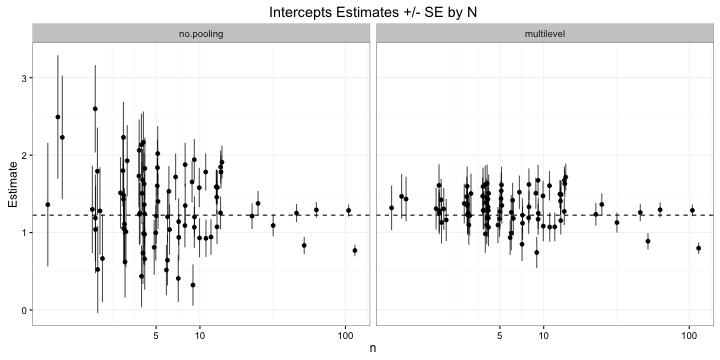
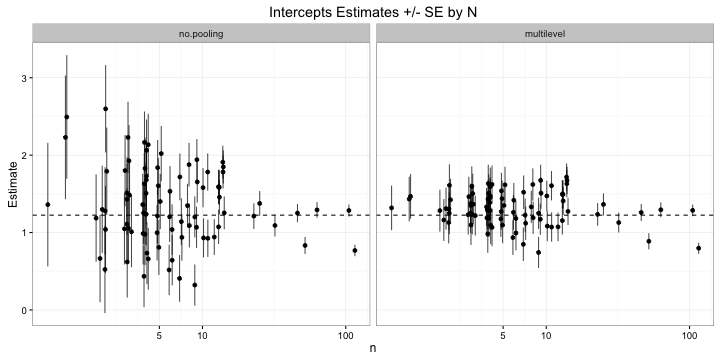
add more to multilevel

diff --git a/_posts/2016-03-03-Multilevel-Models.md b/_posts/2016-03-03-Multilevel-Models.md
@@ -1,7 +1,7 @@
 ---
 layout: post
 title: "Multilevel Models"
-date: "February 3, 2016"
+date: "March 3, 2016"
 categories: ['statistics', 'regression analysis']
 ---
 
@@ -16,11 +16,11 @@ Multilevel models are a compromise between two extremes
 * Models that fit separate fits for each group
 
 
-# Varying Intercept Model
+# Variants of Multilevel Models
 
 Consider three variants of models: 
 
-<img src="/nhuyhoa/figure/source/2016-02-03-Multilevel-Models/unnamed-chunk-2-1.png" title="plot of chunk unnamed-chunk-2" alt="plot of chunk unnamed-chunk-2" style="display: block; margin: auto;" />
+<img src="/nhuyhoa/figure/source/2016-03-03-Multilevel-Models/unnamed-chunk-2-1.png" title="plot of chunk unnamed-chunk-2" alt="plot of chunk unnamed-chunk-2" style="display: block; margin: auto;" />
 
 In the left plot, we fit two separate models. We fit one model with no group variables, the intercept estimate is represented by dashed horizontal line. We fit another model with separate intercepts for each group These intercept estimates and standard error bars are represented by the individual points. Notice that the error bars are quite large at small $$n$$ sizes and and smaller at higher $$n$$ sizes. The complete pooling model ignores county variability while the no-pooling model overstates it (as groups with small $$n$$ sizes are inaccurately estimated). 
 
@@ -44,34 +44,149 @@ This value tells us that the standard deviation of average $$y$$ between groups 
 
 We can fit variants of the varying intercept models in R with the following `lmer()` commands
 
-**Varying intercept, no predictors:**
+**Varying intercept; no predictors:**
 
-$$y$$ ~ $$N(\alpha_i, \sigma^2_y)$$ and $$\alpha$$ ~ $$N(\mu_a, \sigma^2_a)$$
+$$y_i$$ ~ $$N(\alpha_{j}, \sigma^2_y)$$ 
+
+$$\alpha_j$$ ~ $$N(\mu_a, \sigma^2_a)$$
 
 
 {% highlight r %}
 lmer(y ~ 1 + (1 | group))
 {% endhighlight %}
 
-**Varying intercept, individual level predictors:**
+**Varying intercept; individual level predictors:**
 
-$$y$$ ~ $$N(\alpha_i + \beta x, \sigma^2_y)$$ and $$\alpha$$ ~ $$N(\mu_a, \sigma^2_a)$$
+$$y_i$$ ~ $$N(\alpha_{j} + \beta x_i, \sigma^2_y)$$ 
+
+$$\alpha_j$$ ~ $$N(\mu_a, \sigma^2_a)$$
 
 
 {% highlight r %}
 lmer(y ~ x + (1 | group))
 {% endhighlight %}
 
-**Varying intercept, individual and group level predictors:**
+**Varying intercept; individual and group level predictors:**
 
-$$y$$ ~ $$N(\alpha_i + \beta x, \sigma^2_y)$$ and $$\alpha$$ ~ $$N(\mu_a + \tau grp.x, \sigma^2_a)$$
+$$y_i$$ ~ $$N(\alpha_{j} + \beta x_i, \sigma^2_y)$$ 
+
+$$\alpha_j$$ ~ $$N(\mu_a + \tau grp.x, \sigma^2_a)$$
 
 
 {% highlight r %}
 lmer(y ~ x + grp.x + (1 | group))
 {% endhighlight %}
 
-# Varying Intercept, Varying Slope Model
+**Varying intercept, varying slope:**
+
+$$y_i$$ ~ $$N(\alpha_{j} + \beta_{j} x_i, \sigma^2_y)$$
+
+$$ \left(\begin{array}
+{rrr}
+\alpha_j \\
+\beta_j
+\end{array}\right)
+$$ ~ $$N\left( \left(\begin{array}
+{rrr}
+\mu_a \\
+\mu_b
+\end{array}\right) , 
+\left(\begin{array}
+{rrr}
+\sigma^2_a & p \sigma^2_a \sigma^2_b \\
+p \sigma^2_a \sigma^2_b & \sigma^2_b
+\end{array}\right)
+\right)$$
+
+
+{% highlight r %}
+lmer(y ~ x + (1 + x | group))
+{% endhighlight %}
+
+**Varying intercept, varying slope; group level predictors:**
+
+$$y_i$$ ~ $$N(\alpha_{j} + \beta_{j} x_i, \sigma^2_y)$$
+
+$$ \left(\begin{array}
+{rrr}
+\alpha_j \\
+\beta_j
+\end{array}\right)
+$$ ~ $$N\left( \left(\begin{array}
+{rrr}
+\mu_a + \tau grp.x\\
+\mu_b + \gamma grp.x
+\end{array}\right) , 
+\left(\begin{array}
+{rrr}
+\sigma^2_a & p \sigma^2_a \sigma^2_b \\
+p \sigma^2_a \sigma^2_b & \sigma^2_b
+\end{array}\right)
+\right)$$
+
+
+{% highlight r %}
+lmer(y ~ x + grp.x + x:grp.x + (1 + x | group))
+{% endhighlight %}
+
+**Varying intercept, varying slope; individual level predictors:**
+
+$$y_i$$ ~ $$N(\alpha_{j} + \beta_{j} x_i + \beta_z z_i + \beta_{j, z} (x_i z_i), \sigma^2_y)$$
+
+$$ \left(\begin{array}
+{rrr}
+\alpha_j \\
+\beta_j \\
+\beta_{j, z}
+\end{array}\right)
+$$ ~ $$N\left( \left(\begin{array}
+{rrr}
+\mu_a \\
+\mu_b \\
+\mu_{bz}
+\end{array}\right) , 
+\left(\begin{array}
+{rrr}
+\sigma^2_a & p_1 \sigma^2_a \sigma^2_b & p_2 \sigma^2_a \sigma^2_{bz} \\
+p_1 \sigma^2_a \sigma^2_b & \sigma^2_b & p_3 \sigma^2_b \sigma^2_{bz} \\
+p_2 \sigma^2_a \sigma^2_{bz} & p_3 \sigma^2_b \sigma^2_{bz} & \sigma^2_{bz} \\
+\end{array}\right)
+\right)$$
+
+
+{% highlight r %}
+lmer(y ~ z + x + (x + x:z | group))
+{% endhighlight %}
+
+**Varying slope:**
+
+$$y_i$$ ~ $$N(\alpha + \beta_{j} x_i, \sigma^2_y)$$ 
+
+$$\beta_j$$ ~ $$N(\mu_b, \sigma^2_b)$$
+
+
+{% highlight r %}
+lmer(y ~ x + (x - 1 | group))
+{% endhighlight %}
+
+**Non-Nested Models:**
+
+$$y_i$$ ~ $$N(\mu + \alpha_j + \beta_k, \sigma^2_y)$$
+
+$$\alpha_j$$ ~ $$N(0, \sigma^2_a)$$
+
+$$\beta_k$$ ~ $$N(0, \sigma^2_b)$$
+
+
+{% highlight r %}
+lmer(y ~ 1 + (1 | group.a) + (1 | group.b))
+{% endhighlight %}
+
+**Transformations:**
+
+As with regular regression, we can perform transformations for more effective fitting and interpretation. For example, centering and scaling may allow for easier interpretation of coefficients, especially when they are correlated (as with varying intercept, varying slope type models). 
+
+Multilevel models may also be used creatively to assess a variety of effects. For example, consider a scenario where you have a number of variables that mostly measure the same thing. You can use all of the variables by combining them into a weighted average. The weighted average term would be something along the lines of $$\frac{1}{n} \sum^n_i \beta_{ij} * x_{j}$$. 
 
 # Generalized Linear Multilevel Models
 

diff --git a/_posts/2015-10-30-Linux-Commands.md b/_posts/2015-10-30-Linux-Commands.md
@@ -157,6 +157,22 @@ chmod g+r filepath
 chmod +x filepath
 {% endhighlight %}
 
+**Printing Things:**
+
+{% highlight r %}
+# obtain a list of available printers
+lpstat -p -d
+
+# print queue
+lpq -P printer_name
+
+# print file
+lpr -P printer_name filename
+
+# pass commands to printer: print two sides
+lpr -o sides=two-sided-long-edge -Pprinter_name file_name
+{% endhighlight %}
+
 **Useful locations:**
 
 desk22.stat.wisc.edu:public/html
